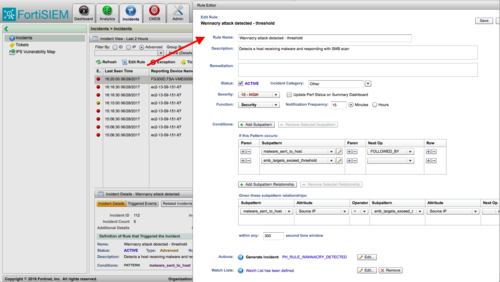
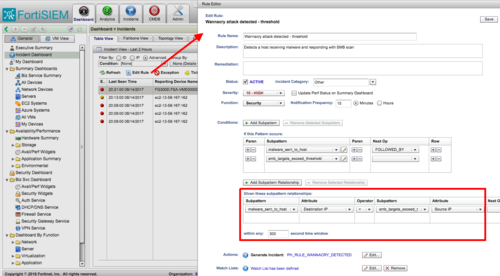
demo script update 2

Changed region(s): [[0.0, 0.0, 1.0, 1.0]]

diff --git a/doc/use.html b/doc/use.html
@@ -20,11 +20,11 @@
 				<td colspan="3">Preparation</td>
 			</tr>
 			<tr>
-				<td>Log into your FortiSIEM appliance. Go to Incidents tab.
+				<td>Log into your FortiSIEM appliance. Go to <i>Dashboard> Incident Dashboard</i>.
 				</td>
 				<td>
 				</td>
-				<td><a href="img/incidents_screen.png"><img src="img/thumbnails/incidents_screen.png"/></a>
+				<td><a href="img/incident_dashboard.png"><img src="img/thumbnails/incident_dashboard.png"/></a>
 				</td>
 			</tr>
 			<tr>
@@ -60,6 +60,7 @@
 						</ul>
 					</p>
 					<p>On our simulated network there is FortiSanbox and FortiGate installed stopping all known threats on the spot and running analysis on the unknown ones. Sandboxing time is counted in minutes which means infections can be contained quickly across all organization and attack vectors but they cannot be ruled out (if the first download channel is real time like web, skype, etc the infected file will get through).</p>
+					<p>We start on Incident Dashboard which is single screen used by SOC team to monitor, classify and prioritize security incidents across the organiation.</p>
 				</td>
 				<td>
 					<a href="img/incident_detected.png"><img src="img/thumbnails/incident_detected.png"/></a>

diff --git a/README.md b/README.md
@@ -12,7 +12,7 @@ Complex SIEM demo scenarios are time consuming to build. The goal of this packag
 
 ## Installation
 
-Clone this repository (`git clone git@github.com:michal-kulakowski/atp-demo.git`). Refer to `doc/install.html`.
+Clone this repository (`git clone https://github.com/michal-kulakowski/atp-demo.git`). Refer to `doc/install.html`.
 
 ## Usage
 
@@ -22,9 +22,11 @@ Refer to `doc/use.html`
 Version 1.0
 
 * initial release
+
 Version 2.0
 
 * added remediation script example
+* added dashboards to demo flow
 * no restart on installation required anymore
 
 ## Future Enhancements
